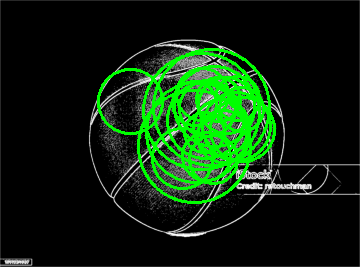
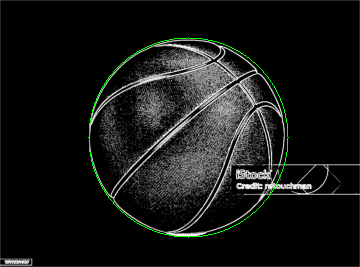
Circular hough works

diff --git a/Project2/circ_hough_demo_try.py b/Project2/circ_hough_demo_try.py
@@ -5,98 +5,154 @@ import math
 import matplotlib.pyplot as plt
 from collections import defaultdict
 
-def find_hough_circles(image, edge_image, r_min, r_max, delta_r, num_thetas, bin_threshold, post_process = True):
-  #image size
-  img_height, img_width = edge_image.shape[:2]
+# def find_hough_circles(image, edge_image, r_min, r_max, delta_r, num_thetas, bin_threshold, post_process = True):
+#   #image size
+#   img_height, img_width = edge_image.shape[:2]
   
-  # R and Theta ranges
-  dtheta = int(360 / num_thetas)
+#   # R and Theta ranges
+#   dtheta = int(360 / num_thetas)
   
-  ## Thetas is bins created from 0 to 360 degree with increment of the dtheta
-  thetas = np.arange(0, 360, step=dtheta)
+#   ## Thetas is bins created from 0 to 360 degree with increment of the dtheta
+#   thetas = np.arange(0, 360, step=dtheta)
   
-  ## Radius ranges from r_min to r_max 
-  rs = np.arange(r_min, r_max, step=delta_r)
+#   ## Radius ranges from r_min to r_max 
+#   rs = np.arange(r_min, r_max, step=delta_r)
   
-  # Calculate Cos(theta) and Sin(theta) it will be required later
-  cos_thetas = np.cos(np.deg2rad(thetas))
-  sin_thetas = np.sin(np.deg2rad(thetas))
+#   # Calculate Cos(theta) and Sin(theta) it will be required later
+#   cos_thetas = np.cos(np.deg2rad(thetas))
+#   sin_thetas = np.sin(np.deg2rad(thetas))
   
-  # Evaluate and keep ready the candidate circles dx and dy for different delta radius
-  # based on the the parametric equation of circle.
-  # x = x_center + r * cos(t) and y = y_center + r * sin(t),  
-  # where (x_center,y_center) is Center of candidate circle with radius r. t in range of [0,2PI)
-  circle_candidates = []
-  for r in rs:
-    for t in range(num_thetas):
-      #instead of using pre-calculated cos and sin theta values you can calculate here itself by following
-      #circle_candidates.append((r, int(r*cos(2*pi*t/num_thetas)), int(r*sin(2*pi*t/num_thetas))))
-      #but its better to pre-calculate and use it here.
-      circle_candidates.append((r, int(r * cos_thetas[t]), int(r * sin_thetas[t])))
+#   # Evaluate and keep ready the candidate circles dx and dy for different delta radius
+#   # based on the the parametric equation of circle.
+#   # x = x_center + r * cos(t) and y = y_center + r * sin(t),  
+#   # where (x_center,y_center) is Center of candidate circle with radius r. t in range of [0,2PI)
+#   circle_candidates = []
+#   for r in rs:
+#     for t in range(num_thetas):
+#       #instead of using pre-calculated cos and sin theta values you can calculate here itself by following
+#       #circle_candidates.append((r, int(r*cos(2*pi*t/num_thetas)), int(r*sin(2*pi*t/num_thetas))))
+#       #but its better to pre-calculate and use it here.
+#       circle_candidates.append((r, int(r * cos_thetas[t]), int(r * sin_thetas[t])))
   
-  # Hough Accumulator, we are using defaultdic instead of standard dict as this will initialize for key which is not 
-  # aready present in the dictionary instead of throwing exception.
-  accumulator = defaultdict(int)
+#   # Hough Accumulator, we are using defaultdic instead of standard dict as this will initialize for key which is not 
+#   # aready present in the dictionary instead of throwing exception.
+#   accumulator = defaultdict(int)
   
-  for y in range(img_height):
-    for x in range(img_width):
-      if edge_image[y][x] != 0: #white pixel
-        # Found an edge pixel so now find and vote for circle from the candidate circles passing through this pixel.
-        for r, rcos_t, rsin_t in circle_candidates:
-          x_center = x - rcos_t
-          y_center = y - rsin_t
-          accumulator[(x_center, y_center, r)] += 1 #vote for current candidate
+#   for y in range(img_height):
+#     for x in range(img_width):
+#       if edge_image[y][x] != 0: #white pixel
+#         # Found an edge pixel so now find and vote for circle from the candidate circles passing through this pixel.
+#         for r, rcos_t, rsin_t in circle_candidates:
+#           x_center = x - rcos_t
+#           y_center = y - rsin_t
+#           accumulator[(x_center, y_center, r)] += 1 #vote for current candidate
   
-  # Output image with detected lines drawn
-  output_img = image.copy()
-  # Output list of detected circles. A single circle would be a tuple of (x,y,r,threshold) 
-  out_circles = []
+#   # Output image with detected lines drawn
+#   output_img = image.copy()
+#   # Output list of detected circles. A single circle would be a tuple of (x,y,r,threshold) 
+#   out_circles = []
   
-  # Sort the accumulator based on the votes for the candidate circles 
-  for candidate_circle, votes in sorted(accumulator.items(), key=lambda i: -i[1]):
-    x, y, r = candidate_circle
-    current_vote_percentage = votes / num_thetas
-    if current_vote_percentage >= bin_threshold: 
-      # Shortlist the circle for final result
-      out_circles.append((x, y, r, current_vote_percentage))
-      print(x, y, r, current_vote_percentage)
+#   # Sort the accumulator based on the votes for the candidate circles 
+#   for candidate_circle, votes in sorted(accumulator.items(), key=lambda i: -i[1]):
+#     x, y, r = candidate_circle
+#     current_vote_percentage = votes / num_thetas
+#     if current_vote_percentage >= bin_threshold: 
+#       # Shortlist the circle for final result
+#       out_circles.append((x, y, r, current_vote_percentage))
+#       print(x, y, r, current_vote_percentage)
       
   
-  # Post process the results, can add more post processing later.
-  if post_process :
-    pixel_threshold = 5
-    postprocess_circles = []
-    for x, y, r, v in out_circles:
-      # Exclude circles that are too close of each other
-      # all((x - xc) ** 2 + (y - yc) ** 2 > rc ** 2 for xc, yc, rc, v in postprocess_circles)
-      # Remove nearby duplicate circles based on pixel_threshold
-      if all(abs(x - xc) > pixel_threshold or abs(y - yc) > pixel_threshold or abs(r - rc) > pixel_threshold for xc, yc, rc, v in postprocess_circles):
-        postprocess_circles.append((x, y, r, v))
-    out_circles = postprocess_circles
+#   # Post process the results, can add more post processing later.
+#   if post_process :
+#     pixel_threshold = 5
+#     postprocess_circles = []
+#     for x, y, r, v in out_circles:
+#       # Exclude circles that are too close of each other
+#       # all((x - xc) ** 2 + (y - yc) ** 2 > rc ** 2 for xc, yc, rc, v in postprocess_circles)
+#       # Remove nearby duplicate circles based on pixel_threshold
+#       if all(abs(x - xc) > pixel_threshold or abs(y - yc) > pixel_threshold or abs(r - rc) > pixel_threshold for xc, yc, rc, v in postprocess_circles):
+#         postprocess_circles.append((x, y, r, v))
+#     out_circles = postprocess_circles
   
     
-  # Draw shortlisted circles on the output image
-  for x, y, r, v in out_circles:
-    output_img = cv2.circle(output_img, (x,y), r, (0,255,0), 2)
+#   # Draw shortlisted circles on the output image
+#   for x, y, r, v in out_circles:
+#     output_img = cv2.circle(output_img, (x,y), r, (0,255,0), 2)
   
-  return output_img, out_circles
+#   return output_img, out_circles
+
+def find_hough_circles(image, edge_image, r_min, r_max, delta_r, num_thetas, bin_threshold, post_process=True, top_k=20):
+    img_height, img_width = edge_image.shape[:2]
+    dtheta = int(360 / num_thetas)
+    thetas = np.arange(0, 360, step=dtheta)
+    rs = np.arange(r_min, r_max, step=delta_r)
+    cos_thetas = np.cos(np.deg2rad(thetas))
+    sin_thetas = np.sin(np.deg2rad(thetas))
+
+    circle_candidates = [(r, int(r * cos_thetas[t]), int(r * sin_thetas[t]))
+                         for r in rs for t in range(num_thetas)]
+
+    from collections import defaultdict
+    accumulator = defaultdict(int)
+
+    for y in range(img_height):
+        for x in range(img_width):
+            if edge_image[y, x] != 0:
+                for r, dx, dy in circle_candidates:
+                    xc = x - dx
+                    yc = y - dy
+                    if 0 <= xc < img_width and 0 <= yc < img_height:
+                        accumulator[(xc, yc, r)] += 1
+
+    output_img = image.copy()
+    all_circles = [
+        (x, y, r, votes / num_thetas)
+        for (x, y, r), votes in accumulator.items()
+        if votes / num_thetas >= bin_threshold
+    ]
+
+    # Sort by vote strength
+    all_circles.sort(key=lambda c: -c[3])
+    if top_k:
+        all_circles = all_circles[:top_k]
+
+    # Post-process: remove near-duplicates
+    if post_process:
+        final_circles = []
+        for x, y, r, v in all_circles:
+            too_close = False
+            for xc, yc, rc, _ in final_circles:
+                if np.hypot(x - xc, y - yc) < 10 and abs(r - rc) < 5:
+                    too_close = True
+                    break
+            if not too_close:
+                final_circles.append((x, y, r, v))
+        all_circles = final_circles
+
+    for x, y, r, _ in all_circles:
+        cv2.circle(output_img, (x, y), r, (0, 255, 0), 1)  # thinner stroke
+
+    return output_img, all_circles
+
 
 def main():
-    # r_min = 10
-    # r_max = 200
-    # delta_r = 1
-    # num_thetas = 100
-    # bin_threshold = 0.4
+    r_min = 100
+    r_max = 200
+    delta_r = 1
+    num_thetas = 100
+    bin_threshold = 0.4
+    min_edge_threshold = 100
+    max_edge_threshold = 200
+
+    # r_min = 35              # ignore very small circles (they cause noise)
+    # r_max = 200              # limit to expected basketball size
+    # delta_r = 2             # coarser search = less memory & better stability
+    # num_thetas = 60         # 60 angles is enough, faster too
+    # bin_threshold = 0.4    # keep only confident circles
     # min_edge_threshold = 100
     # max_edge_threshold = 200
 
-    r_min = 20
-    r_max = 80
-    delta_r = 2
-    num_thetas = 60
-    bin_threshold = 0.6
-    min_edge_threshold = 100
-    max_edge_threshold = 200
+
     
     input_img = cv2.imread("sobel_small.png")
     

diff --git a/Project2/demo_2.py b/Project2/demo_2.py
@@ -3,7 +3,7 @@ import imageio.v3 as iio
 from skimage.transform import resize
 
 def resize_sobel():
-    img = iio.imread("sobel.png")
+    img = iio.imread("basketball_large.png")
     h, w = img.shape[:2]
     img_small = resize(
         img,
@@ -11,7 +11,7 @@ def resize_sobel():
         anti_aliasing=True,
         preserve_range=True
     ).astype(img.dtype)
-    iio.imwrite(Path("sobel_small.png"), img_small)
+    iio.imwrite(Path("basketball_small.png"), img_small)
 
 if __name__ == "__main__":
     resize_sobel()
